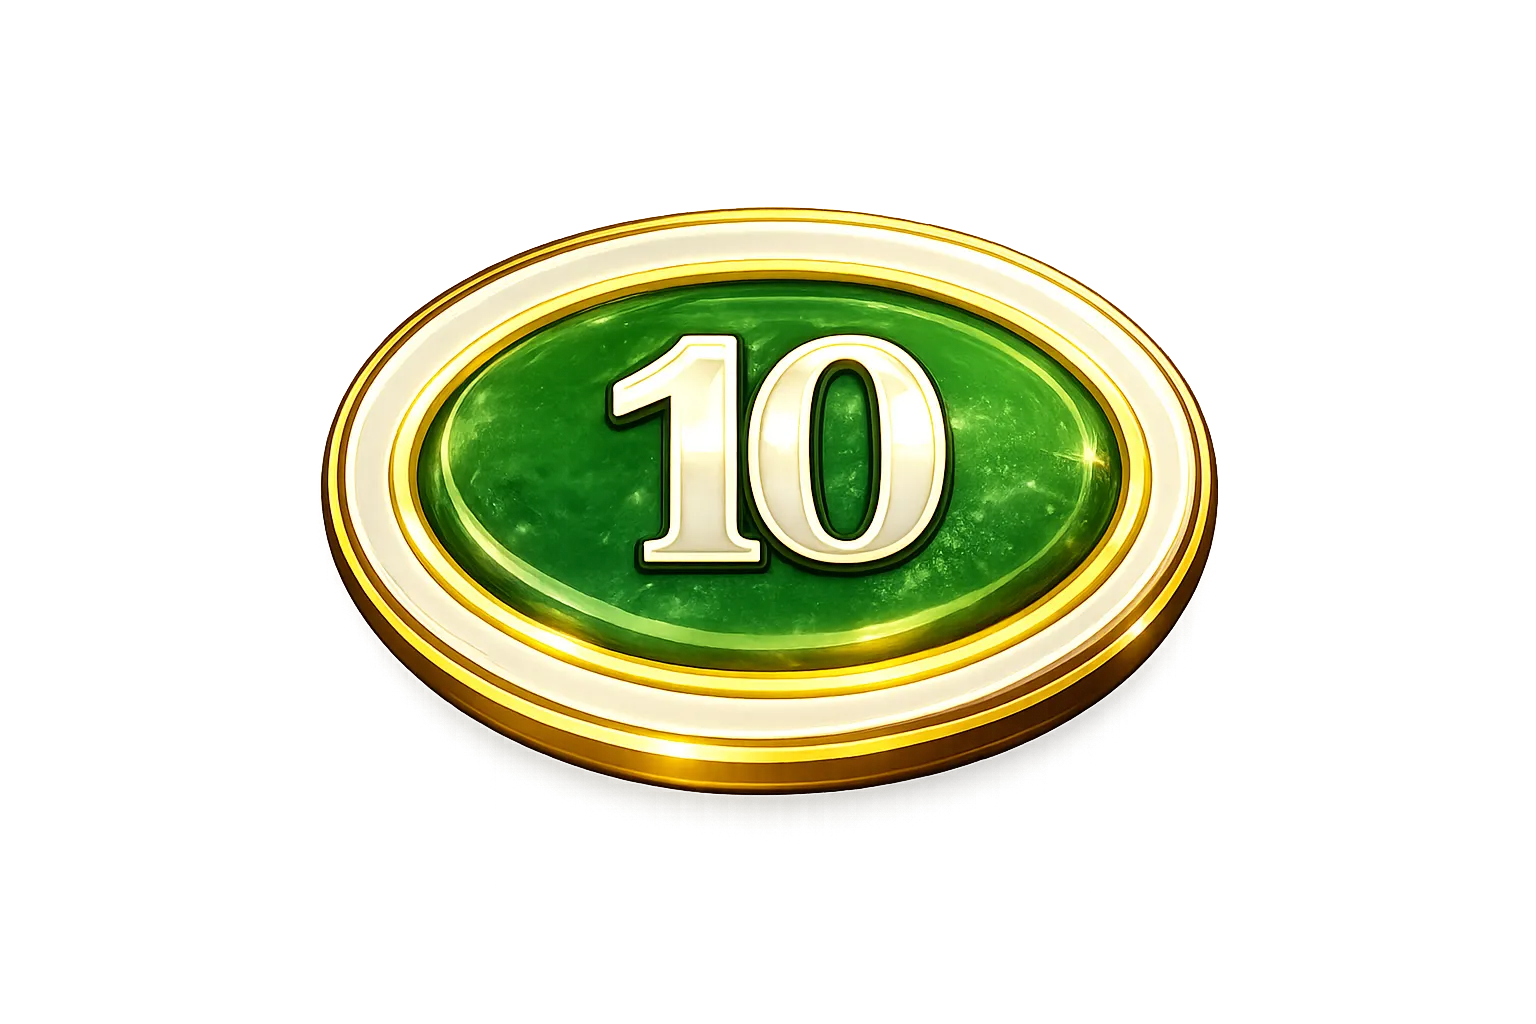
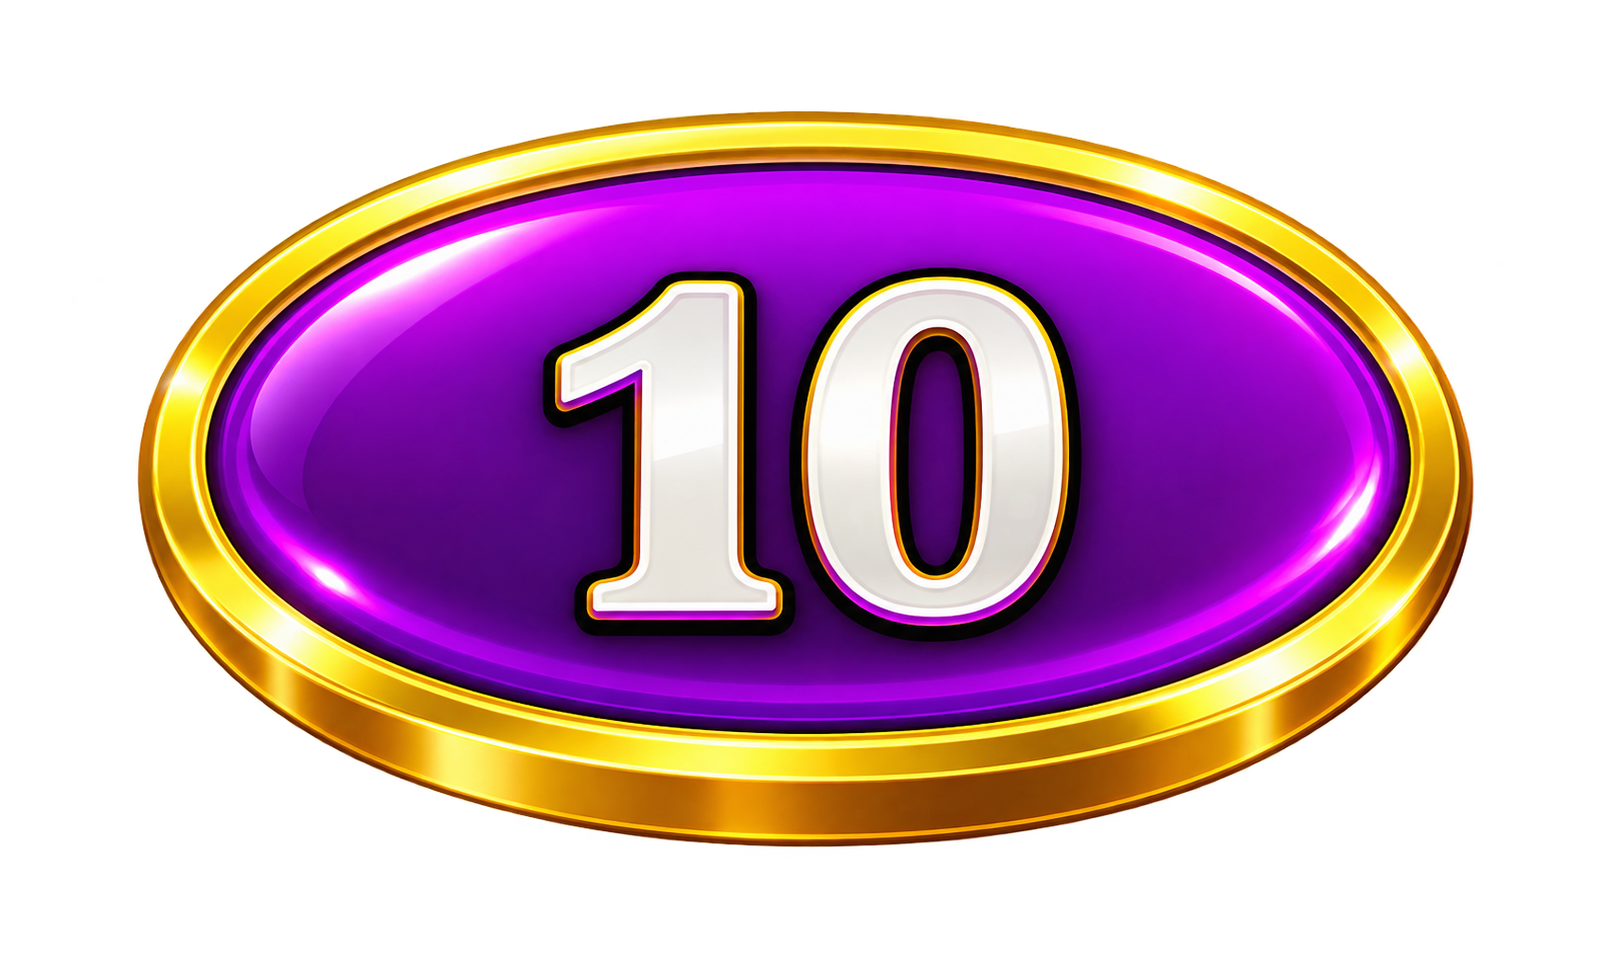
feat: implement visibility handling for audio playback; pause/resume sounds on tab visibility change

diff --git a/frontend/src/features/home/components/PanelDisplay.jsx b/frontend/src/features/home/components/PanelDisplay.jsx
@@ -1,30 +1,45 @@
+import p1 from "@assets/images/panels/1.webp";
+import p1glow from "@assets/images/panels/1glow.webp";
+import p5 from "@assets/images/panels/5.webp";
+import p5glow from "@assets/images/panels/5glow.webp";
 import p10 from "@assets/images/panels/10.webp";
-import { useSound } from "@hooks/useSound";
-import p20 from "@assets/images/panels/20.webp";
+import p10glow from "@assets/images/panels/10glow.png";
 import p50 from "@assets/images/panels/50.webp";
+import p50glow from "@assets/images/panels/50glow.webp";
 import p100 from "@assets/images/panels/100.webp";
-import p200 from "@assets/images/panels/200.webp";
+import p100Glow from "@assets/images/panels/100Glow.webp";
 import p500 from "@assets/images/panels/500.webp";
 import p1000 from "@assets/images/panels/1000.webp";
 import p5000 from "@assets/images/panels/5000.webp";
+import { useSound } from "@hooks/useSound";
 
 const IMAGES = {
+  1: p1,
+  5: p5,
   10: p10,
-  20: p20,
   50: p50,
   100: p100,
-  200: p200,
   500: p500,
   1000: p1000,
   5000: p5000,
 };
 
+// Selected panels with a glow image show the glow; the rest keep the
+// number image.
+const GLOW_IMAGES = {
+  1: p1glow,
+  5: p5glow,
+  10: p10glow,
+  50: p50glow,
+  100: p100Glow,
+};
+
 const PANEL_CONFIG = {
-  10: { box: { right: "93.2%", top: "45.6%", width: "8%", height: "9%" } },
-  20: { box: { right: "87.8%", top: "45.6%", width: "7.5%", height: "9%" } },
-  50: { box: { right: "82.5%", top: "45.6%", width: "7%", height: "9%" } },
-  100: { box: { right: "77%", top: "45.6%", width: "7%", height: "9%" } },
-  200: { box: { right: "15.7%", top: "45.6%", width: "8%", height: "9%" } },
+  1: { box: { right: "94%", top: "47%", width: "6.5%", height: "6%" } },
+  5: { box: { right: "87.8%", top: "46.5%", width: "7.5%", height: "7.5%" } },
+  10: { box: { right: "82.5%", top: "47%", width: "6.5%", height: "6%" } },
+  50: { box: { right: "77.5%", top: "47%", width: "6%", height: "6%" } },
+  100: { box: { right: "16.7%", top: "47.6%", width: "6%", height: "5.1%" } },
   500: { box: { right: "10.2%", top: "45.6%", width: "8%", height: "9%" } },
   1000: { box: { right: "5%", top: "45.6%", width: "7.5%", height: "9%" } },
   5000: { box: { left: "92.5%", top: "45.6%", width: "9%", height: "9%" } },
@@ -45,6 +60,7 @@ const PanelDisplay = ({ selectedValue, onSelect, disabled = false }) => {
         const value = Number(key);
         const { box } = PANEL_CONFIG[value];
         const img = IMAGES[value];
+        const glowImg = GLOW_IMAGES[value];
         const isSelected = selectedValue === value;
 
         return (
@@ -60,10 +76,10 @@ const PanelDisplay = ({ selectedValue, onSelect, disabled = false }) => {
             }}
             onClick={() => handleSelect(value)}
           >
-            {isSelected && img && (
+            {(isSelected || glowImg) && img && (
               <img
                 decoding="async"
-                src={img}
+                src={isSelected && glowImg ? glowImg : img}
                 alt={`panel-${value}`}
                 className="absolute inset-0 w-full h-full object-fill pointer-events-none"
               />

diff --git a/frontend/src/pages/HomePage.jsx b/frontend/src/pages/HomePage.jsx
@@ -59,7 +59,7 @@ const HomePage = () => {
   const [taken, setTaken] = useState(false);
   const [won, setWon] = useState(false);
   const [gameMessage, setGameMessage] = useState(
-    "Please Bet to Start Game. Minimum Bet = 20",
+    "Please Bet to Start Game. Minimum Bet=1",
   );
   const [cancelMode, setCancelMode] = useState(false);
   const [winInfo, setWinInfo] = useState(null);
@@ -114,9 +114,9 @@ const HomePage = () => {
         setWinInfo(null);
       }
       setBets((prev) => ({ ...prev, [num]: (prev[num] || 0) + selectedValue }));
-      // New bet resets the prompt so a stale message never lingers.
-      manualMsg.current = false;
-      setGameMessage("Please Bet to Start Game. Minimum Bet = 20");
+      // Number click keeps this hint on screen until the round advances.
+      manualMsg.current = true;
+      setGameMessage("You can either make Bet or Press BETOK Button.");
     },
     [selectedValue, takePending, resultRevealed, cancelMode, submitted],
   );
@@ -145,9 +145,9 @@ const HomePage = () => {
     }
 
     // Minimum bet validation.
-    if (totalBet < 20) {
+    if (totalBet < 1) {
       manualMsg.current = true;
-      setGameMessage("Minimum bet amount is 20.");
+      setGameMessage("Minimum bet amount is 1.");
       return;
     }
 
@@ -155,9 +155,7 @@ const HomePage = () => {
     const balance = user?.balance ?? 0;
     if (totalBet > balance) {
       manualMsg.current = true;
-      setGameMessage(
-        `Insufficient balance. Total ${totalBet} > Balance ${balance}`,
-      );
+      setGameMessage("Score Insufficient.");
       return;
     }
 
@@ -213,7 +211,7 @@ const HomePage = () => {
   // Phase message:
   //   last 10 sec      -> "Bet Time over"
   //   wheel spinning   -> "FOR AMUSEMENT ONLY NO CASH VALUE"
-  //   betting window   -> "Please Bet to Start Game. Minimum Bet = 20"
+  //   betting window   -> "Please Bet to Start Game. Minimum Bet=1"
   // Manual messages (validation / accepted) override the betting-window prompt.
   useEffect(() => {
     if (time <= 10 && time > 0) {
@@ -223,7 +221,7 @@ const HomePage = () => {
       manualMsg.current = false;
       setGameMessage("FOR AMUSEMENT ONLY NO CASH VALUE");
     } else if (!manualMsg.current && time > 12) {
-      setGameMessage("Please Bet to Start Game. Minimum Bet = 20");
+      setGameMessage("Please Bet to Start Game. Minimum Bet=1");
     }
   }, [time, wheelSpinning]);
 
@@ -453,7 +451,7 @@ const HomePage = () => {
           setWon(false);
           setBets({});
           setSubmitted(false);
-          setGameMessage("No winning amount this draw");
+          setGameMessage("Game over. Press PreBetOK Button or Make Bet.");
         }
       } catch {
         setWinInfo(null);

diff --git a/frontend/src/features/home/components/ButtonDisplay.jsx b/frontend/src/features/home/components/ButtonDisplay.jsx
@@ -12,7 +12,7 @@ import exitBtn from "@assets/images/buttons/bet1.webp";
 const BUTTONS = [
   {
     id: "cancelAll",
-    name: "Cancel All",
+    name: "Cancel Bet",
     sound: "CANCEL",
     base: cancelBtn,
     glow: cancelBetGlow,
@@ -48,7 +48,7 @@ const BUTTONS = [
   },
   {
     id: "cancelSpecific",
-    name: "Cancel specific bet",
+    name: "Cancel Specific Bet",
     sound: "CANCEL",
     base: cancelBtn,
     glow: cancelBetGlow,
@@ -96,7 +96,7 @@ const ButtonDisplay = ({
         // no hover, no glow, no click. Exit always stays usable.
         const btnLocked = !isExit(btn) && (disabled || (takeLock && !isTake(btn)));
         const isHovered = !btnLocked && hovered === btn.id;
-        const name = isPreview(btn) ? (hasBets ? "OK Bet" : "Prev") : btn.name;
+        const name = isPreview(btn) ? (hasBets ? "Bet Ok" : "Prev Bet") : btn.name;
         // Cancel All + Cancel Specific blink while bets are pending (not yet
         // accepted), but only when cancel-specific mode is off.
         const blink = isGlowButton(btn) && hasBets && !submitted && !cancelMode;
